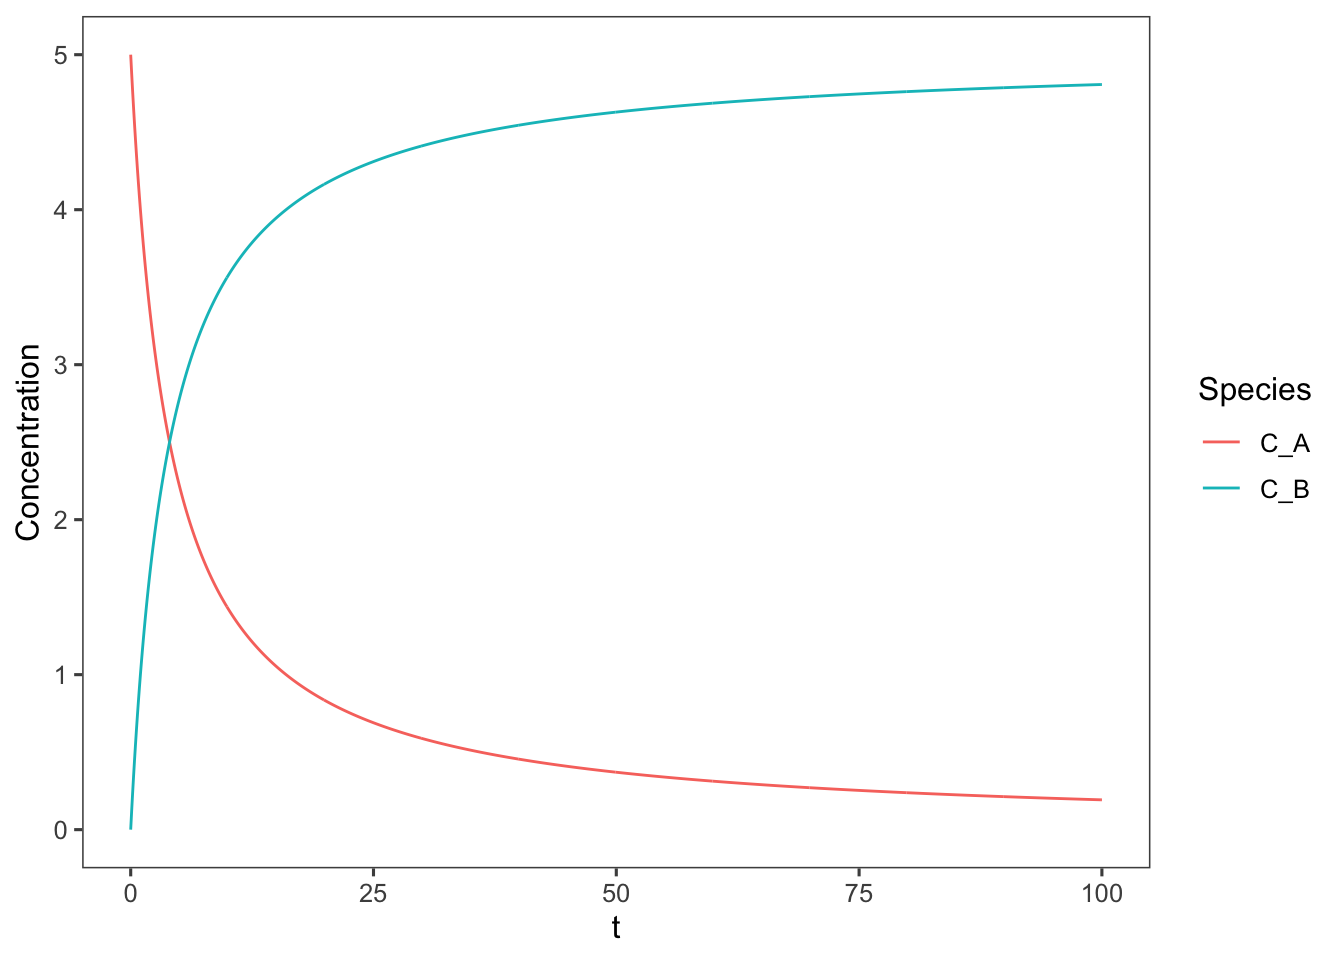
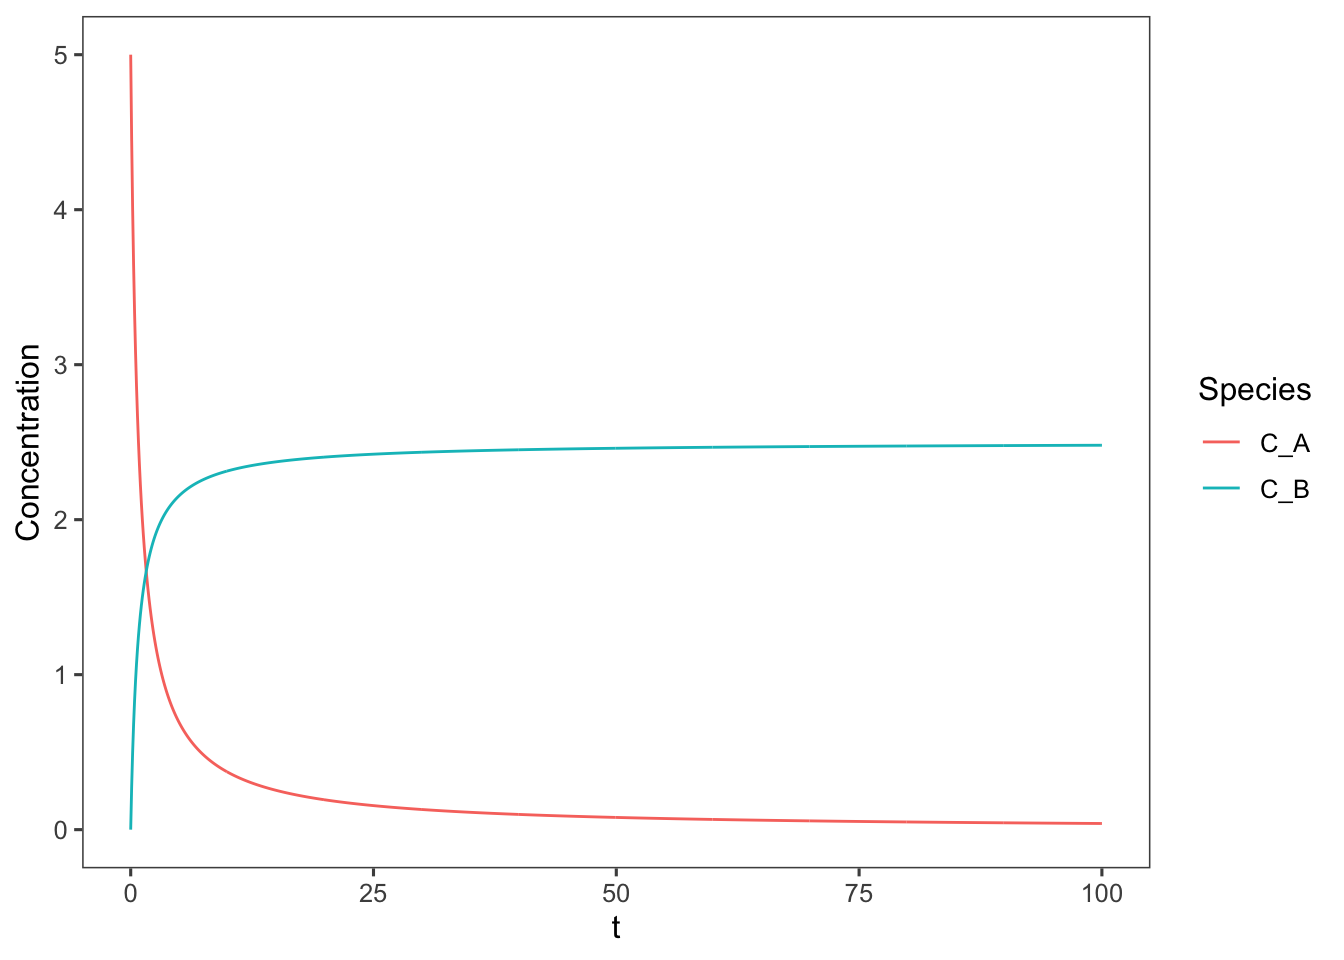
fix exponents in 2nd order example

diff --git a/docs/02-ideal-reactors.html b/docs/02-ideal-reactors.html
@@ -24,7 +24,7 @@
 <meta name="author" content="R. Clay Wright" />
 
 
-<meta name="date" content="2021-02-22" />
+<meta name="date" content="2021-02-23" />
 
   <meta name="viewport" content="width=device-width, initial-scale=1" />
   <meta name="apple-mobile-web-app-capable" content="yes" />
@@ -338,19 +338,19 @@ Now we can plot this relationship.</p>
 <p>What would this plot look like if it were second order?
 <em>E.g.</em> if the reaction was <span class="math inline">\(\require{mhchem}\ce{ 2A -&gt; B }\)</span> and the rate equation was <span class="math inline">\(-r_A = k_1C_A^2\)</span></p>
 <blockquote>
-<p><em>In this case the design equation simplifies to <span class="math inline">\(k_1C_{A0}(1-x_A)^2 = \frac{dx_A}{dt}\)</span>. </em>
-<span class="math display">\[\int_0^tk_1C_{A0}dt = \int_0^{x_A}\frac{dx_A}{(1-x_A)^2}\]</span>
+<p><em>In this case the design equation simplifies to <span class="math inline">\(k_1\left[C_{A0}(1-x_A)\right]^2 = \frac{dx_A}{dt}\)</span>. </em>
+<span class="math display">\[\int_0^tk_1C_{A0}^2dt = \int_0^{x_A}\frac{dx_A}{(1-x_A)^2}\]</span>
 <span class="math display">\[k_1C_{A0}t = \frac{1}{1-x_A} - 1\]</span>
 <span class="math display">\[ 1 - x_A = \frac{1}{k_1C_{A0}t + 1}\]</span>
 <span class="math display">\[ x_A = 1 - \frac{1}{k_1C_{A0}t + 1}\]</span>
 <em>Graphing this equation as above yields</em></p>
 </blockquote>
-<div class="sourceCode" id="cb5"><pre class="sourceCode r"><code class="sourceCode r"><span id="cb5-1"><a href="02-ideal-reactors.html#cb5-1"></a>x_A &lt;-<span class="st"> </span><span class="dv">1</span> <span class="op">-</span><span class="st"> </span><span class="dv">1</span><span class="op">/</span>(k_<span class="dv">1</span> <span class="op">*</span><span class="st"> </span>C_A0 <span class="op">*</span><span class="st"> </span>t <span class="op">+</span><span class="st"> </span><span class="dv">1</span>)</span>
+<div class="sourceCode" id="cb5"><pre class="sourceCode r"><code class="sourceCode r"><span id="cb5-1"><a href="02-ideal-reactors.html#cb5-1"></a>x_A &lt;-<span class="st"> </span><span class="dv">1</span> <span class="op">-</span><span class="st"> </span><span class="dv">1</span><span class="op">/</span>(k_<span class="dv">1</span> <span class="op">*</span><span class="st"> </span>C_A0<span class="op">^</span><span class="dv">2</span> <span class="op">*</span><span class="st"> </span>t <span class="op">+</span><span class="st"> </span><span class="dv">1</span>)</span>
 <span id="cb5-2"><a href="02-ideal-reactors.html#cb5-2"></a><span class="kw">require</span>(tidyverse)</span>
 <span id="cb5-3"><a href="02-ideal-reactors.html#cb5-3"></a><span class="kw">require</span>(magrittr)</span>
 <span id="cb5-4"><a href="02-ideal-reactors.html#cb5-4"></a>data &lt;-<span class="st"> </span><span class="kw">tibble</span>(t, x_A)</span>
 <span id="cb5-5"><a href="02-ideal-reactors.html#cb5-5"></a>C_A &lt;-<span class="st"> </span>C_A0 <span class="op">*</span><span class="st"> </span>(<span class="dv">1</span> <span class="op">-</span><span class="st"> </span>data<span class="op">$</span>x_A)</span>
-<span id="cb5-6"><a href="02-ideal-reactors.html#cb5-6"></a>C_B &lt;-<span class="st"> </span>C_A0 <span class="op">*</span><span class="st"> </span>data<span class="op">$</span>x_A</span>
+<span id="cb5-6"><a href="02-ideal-reactors.html#cb5-6"></a>C_B &lt;-<span class="st"> </span>C_A0 <span class="op">*</span><span class="st"> </span>data<span class="op">$</span>x_A<span class="op">/</span><span class="dv">2</span></span>
 <span id="cb5-7"><a href="02-ideal-reactors.html#cb5-7"></a>data &lt;-<span class="st"> </span><span class="kw">cbind</span>(data, C_A, C_B)</span>
 <span id="cb5-8"><a href="02-ideal-reactors.html#cb5-8"></a>data <span class="op">%&lt;&gt;%</span><span class="st"> </span><span class="kw">gather</span>(C_A, C_B, <span class="dt">key =</span> <span class="st">&quot;Species&quot;</span>, <span class="dt">value =</span> <span class="st">&quot;Concentration&quot;</span>)</span>
 <span id="cb5-9"><a href="02-ideal-reactors.html#cb5-9"></a><span class="kw">ggplot</span>(<span class="dt">data =</span> data, <span class="kw">aes</span>(<span class="dt">x =</span> t, <span class="dt">y =</span> Concentration, <span class="dt">color =</span> Species)) <span class="op">+</span><span class="st"> </span></span>

diff --git a/docs/index.html b/docs/index.html
@@ -24,7 +24,7 @@
 <meta name="author" content="R. Clay Wright" />
 
 
-<meta name="date" content="2021-02-22" />
+<meta name="date" content="2021-02-23" />
 
   <meta name="viewport" content="width=device-width, initial-scale=1" />
   <meta name="apple-mobile-web-app-capable" content="yes" />
@@ -206,7 +206,7 @@ code span.wa { color: #60a0b0; font-weight: bold; font-style: italic; } /* Warni
 <div id="header">
 <h1 class="title">Bioprocess Engineering</h1>
 <p class="author"><em>R. Clay Wright</em></p>
-<p class="date"><em>2021-02-22</em></p>
+<p class="date"><em>2021-02-23</em></p>
 </div>
 <!--- Question Template
 #### ???Questions??? 

diff --git a/docs/01-stoich-rates.html b/docs/01-stoich-rates.html
@@ -24,7 +24,7 @@
 <meta name="author" content="R. Clay Wright" />
 
 
-<meta name="date" content="2021-02-22" />
+<meta name="date" content="2021-02-23" />
 
   <meta name="viewport" content="width=device-width, initial-scale=1" />
   <meta name="apple-mobile-web-app-capable" content="yes" />

diff --git a/docs/03-multiple-rxns-yield-selectivity.html b/docs/03-multiple-rxns-yield-selectivity.html
@@ -24,7 +24,7 @@
 <meta name="author" content="R. Clay Wright" />
 
 
-<meta name="date" content="2021-02-22" />
+<meta name="date" content="2021-02-23" />
 
   <meta name="viewport" content="width=device-width, initial-scale=1" />
   <meta name="apple-mobile-web-app-capable" content="yes" />

diff --git a/docs/04-Kinetics.html b/docs/04-Kinetics.html
@@ -24,7 +24,7 @@
 <meta name="author" content="R. Clay Wright" />
 
 
-<meta name="date" content="2021-02-22" />
+<meta name="date" content="2021-02-23" />
 
   <meta name="viewport" content="width=device-width, initial-scale=1" />
   <meta name="apple-mobile-web-app-capable" content="yes" />

diff --git a/docs/05-complex-enzyme-kinetics.html b/docs/05-complex-enzyme-kinetics.html
@@ -24,7 +24,7 @@
 <meta name="author" content="R. Clay Wright" />
 
 
-<meta name="date" content="2021-02-22" />
+<meta name="date" content="2021-02-23" />
 
   <meta name="viewport" content="width=device-width, initial-scale=1" />
   <meta name="apple-mobile-web-app-capable" content="yes" />
